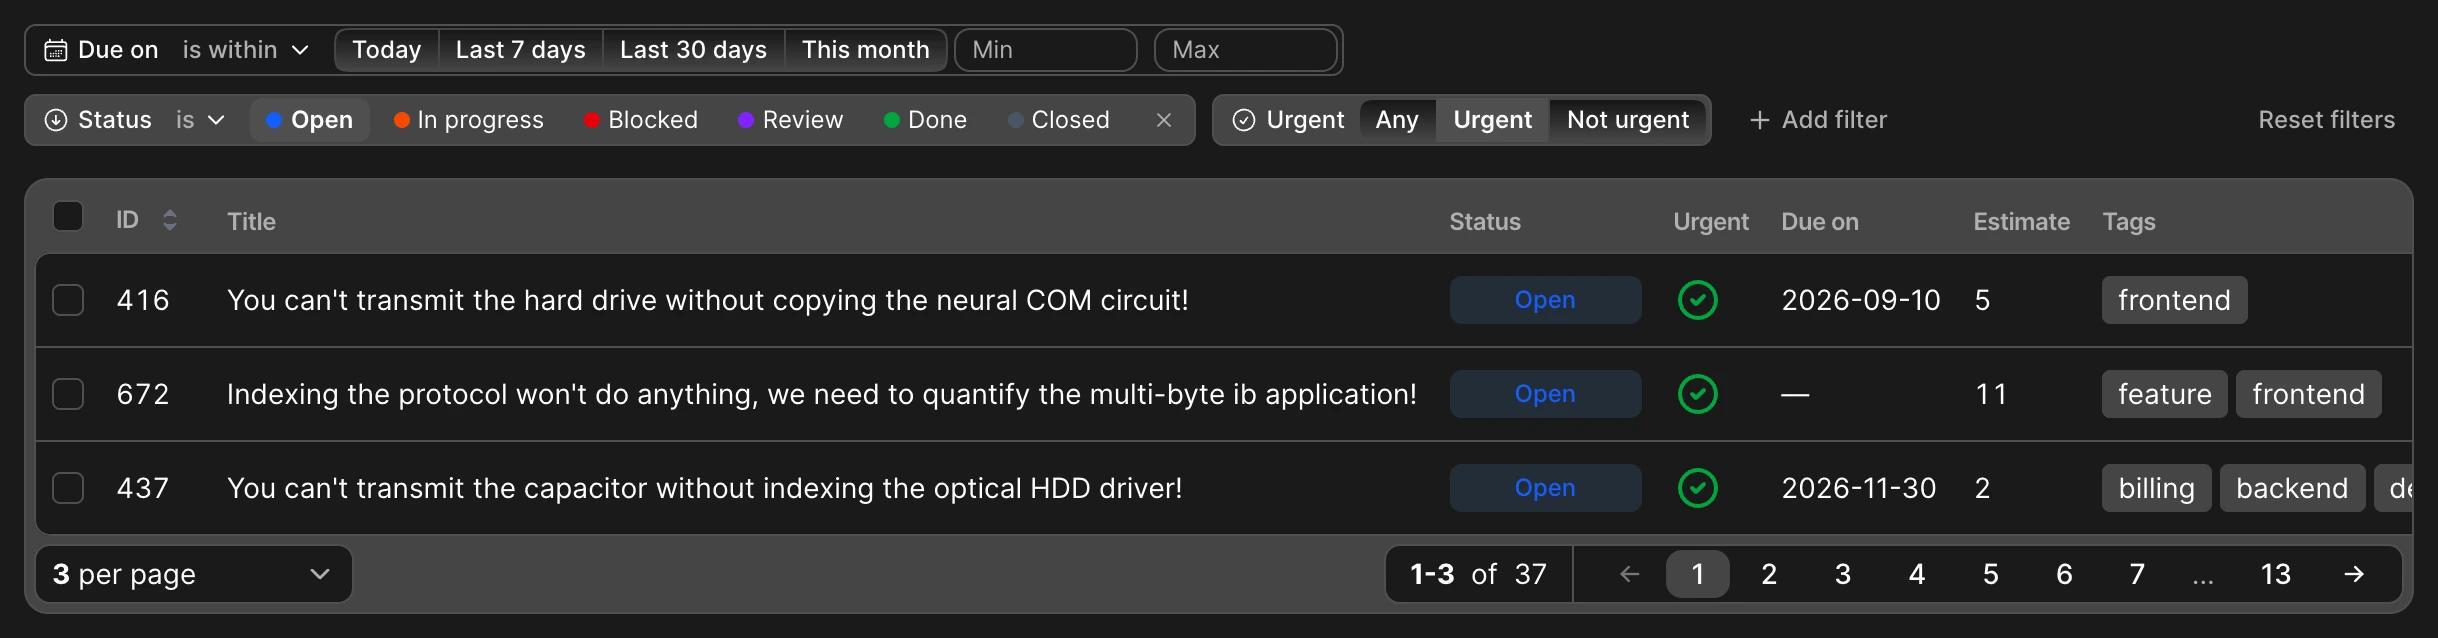
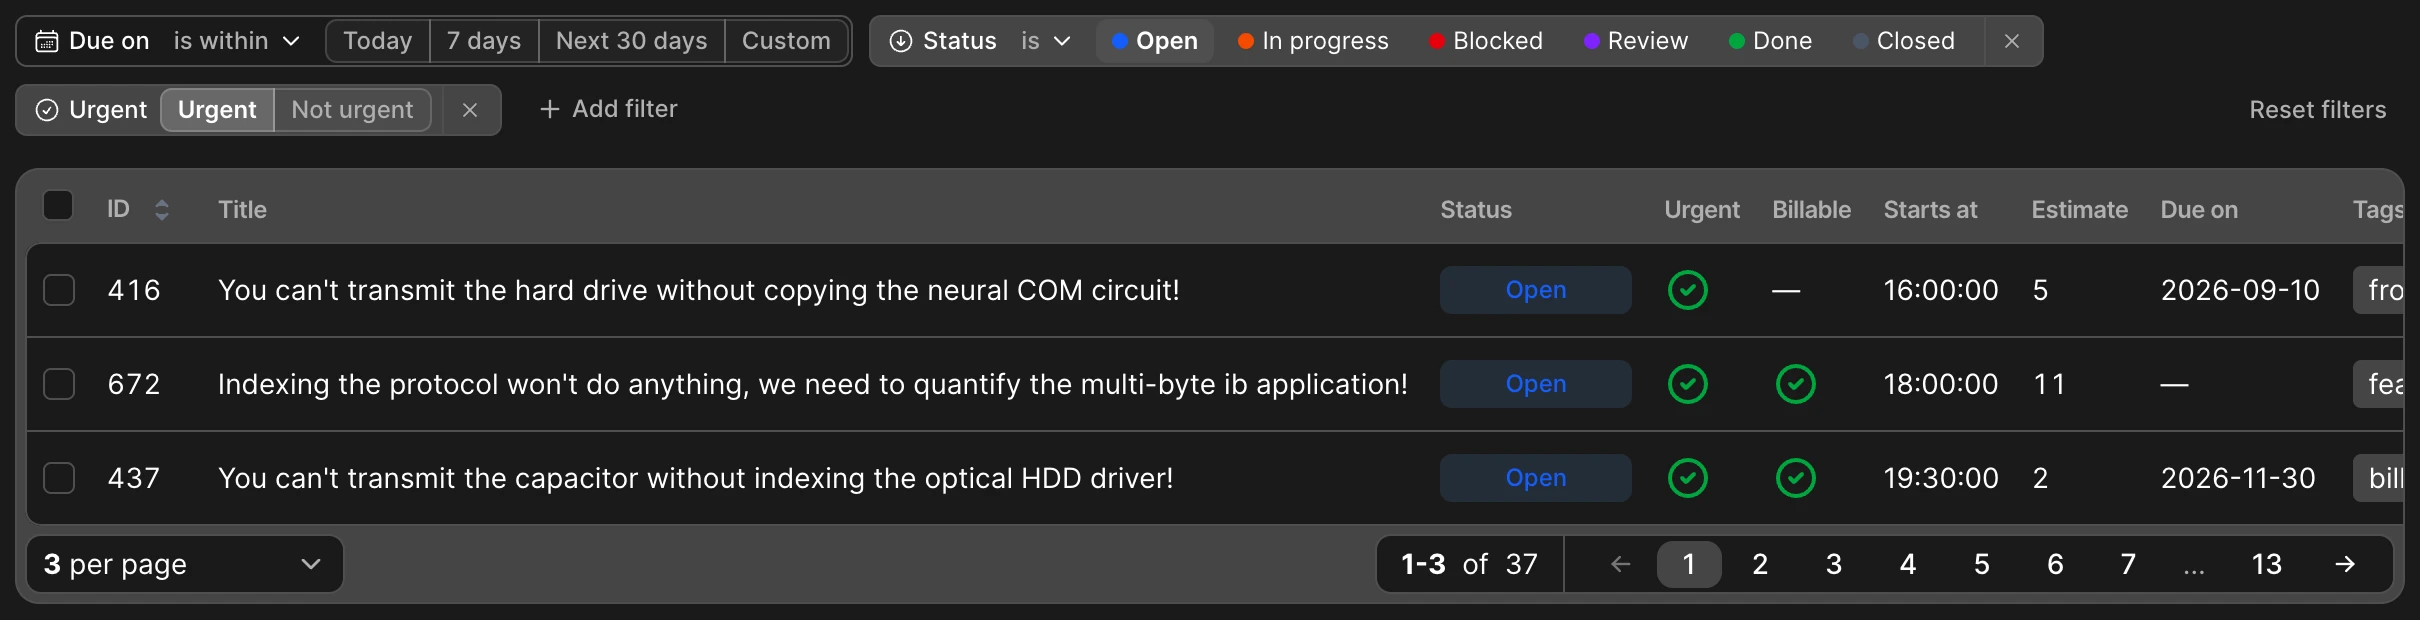
docs(dynamic-filters): booleans start with nothing picked, and inline screenshots use flat toggles
The Any option is gone: an inline boolean shows Yes and No, nothing picked until applied, and clears with its x.

diff --git a/docs/4.0/dynamic-filters-api.md b/docs/4.0/dynamic-filters-api.md
@@ -54,7 +54,7 @@ Each type opens on its most common condition, and the menu holds the rest:
 | ------- | ------------- | ----------------------------------------------------------------------------- |
 | Select  | Is            | A checklist of every option. Ticked options match any of them; under Is not, none of them. On a `badge` field, each option shows its badge colour. |
 | Text    | Contains      | A text box.                                                                    |
-| Boolean | (no menu)     | Any / Yes / No as one row of buttons. Picking one applies it straight away. Rename them with `options:`, and add Empty with `nullable: true`, see below. |
+| Boolean | (no menu)     | Yes / No as one row of buttons, with nothing picked until the filter is applied. Picking one applies it straight away, and the x clears it. Rename them with `options:`, and add Empty with `nullable: true`, see below. |
 | Number  | =             | One number. Is within takes a min and a max (fill either or both).            |
 | Date    | Is within     | Today, 7 days, 30 days, This month and Last month as one row of buttons. Custom after them shows a from and to date. Change the buttons with [`presets`](#presets). Other conditions take one date. |
 | Date time | Is within   | The same as Date, and the from and to boxes pick a time as well as a day.    |
@@ -462,7 +462,7 @@ An inline filter shows the same condition menu as the pill's dropdown, right aft
 
 Ticks and buttons filter straight away. Boxes apply on Enter or when they lose focus.
 
-<Image src="/assets/img/4_0/dynamic-filters/inline.webp" dark-src="/assets/img/4_0/dynamic-filters/inline-dark.webp" width="2438" height="638" alt="Inline filters in the Tickets filter bar: Due on with its condition menu, date preset buttons and from and to boxes; Status as a row of coloured chips with Open picked; Urgent as Any, Urgent and Not urgent buttons with Urgent picked. The table lists urgent open tickets." />
+<Image src="/assets/img/4_0/dynamic-filters/inline.webp" dark-src="/assets/img/4_0/dynamic-filters/inline-dark.webp" width="2420" height="620" alt="Inline filters in the Tickets filter bar: Due on with its condition menu and date preset buttons; Status as a row of coloured chips with Open picked; Urgent as Urgent and Not urgent buttons with Urgent picked. The table lists urgent open tickets." />
 
 </Option>
 

diff --git a/docs/4.0/dynamic-filters.md b/docs/4.0/dynamic-filters.md
@@ -230,7 +230,7 @@ With it on, [`inline`](./dynamic-filters-api.html#inline) lays a pinned filter's
 field :urgent, as: :boolean, filterable: {pinned: true, inline: true}
 ```
 
-<Image src="/assets/img/4_0/dynamic-filters/inline.webp" dark-src="/assets/img/4_0/dynamic-filters/inline-dark.webp" width="2438" height="638" alt="Inline filters in the Tickets filter bar: Due on with its condition menu, date preset buttons and from and to boxes; Status as a row of coloured chips with Open picked; Urgent as Any, Urgent and Not urgent buttons with Urgent picked. The table lists urgent open tickets." />
+<Image src="/assets/img/4_0/dynamic-filters/inline.webp" dark-src="/assets/img/4_0/dynamic-filters/inline-dark.webp" width="2420" height="620" alt="Inline filters in the Tickets filter bar: Due on with its condition menu and date preset buttons; Status as a row of coloured chips with Open picked; Urgent as Urgent and Not urgent buttons with Urgent picked. The table lists urgent open tickets." />
 
 ## Configure the filters bar
 
